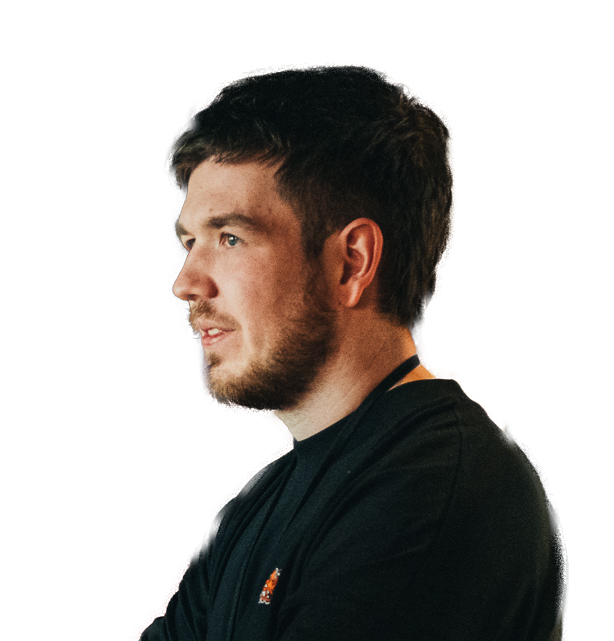
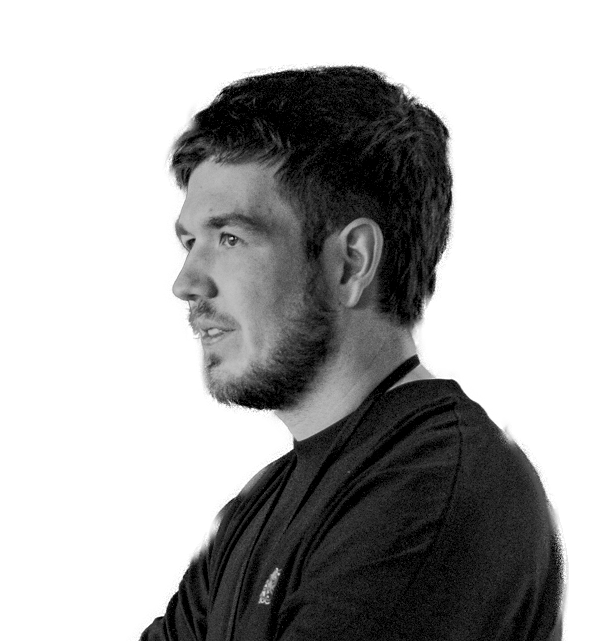
are we there yet

diff --git a/index.html b/index.html
@@ -24,7 +24,7 @@
         width: 100%;
         height: 100%;
         z-index: -1;
-        opacity: 0.12;
+        opacity: 0.2;
       }
       .card-wrapper {
         display: flex;
@@ -39,7 +39,6 @@
       }
       .card {
         background: #111;
-        border: 1px solid #222;
         border-radius: 16px;
         padding: 40px 50px;
         text-align: center;
@@ -80,6 +79,11 @@
         color: #ff3d00;
         font-weight: bold;
         text-decoration: none;
+        position: relative;
+        transition: text-shadow 0.3s ease;
+        text-shadow: 0 0 15px rgba(255, 61, 0, 0.8), 0 0 30px rgba(255, 61, 0, 0.4);
+      }
+      .calda:hover {
       }
     </style>
   </head>
@@ -131,11 +135,32 @@
           return fract(sin(dot(p, vec3(12.9898, 78.233, 45.164))) * 43758.5453);
         }
 
+        float noise(vec2 p) {
+          vec2 i = floor(p);
+          vec2 f = fract(p);
+          vec2 u = f * f * (3.0 - 2.0 * f);
+          float a = random(i);
+          float b = random(i + vec2(1.0, 0.0));
+          float c = random(i + vec2(0.0, 1.0));
+          float d = random(i + vec2(1.0, 1.0));
+          return mix(mix(a, b, u.x), mix(c, d, u.x), u.y);
+        }
+
+        float fbm(vec2 p) {
+          float v = 0.0, a = 0.5;
+          for (int i = 0; i < 5; i++) {
+            v += a * noise(p);
+            p *= 2.0;
+            a *= 0.5;
+          }
+          return v;
+        }
+
         void main() {
-          float px = 8.0;
+          float px = 6.0;
           vec2 coord = floor(gl_FragCoord.xy / px);
 
-          float grain = random3(vec3(coord, floor(u_time * 5.0)));
+          float grain = random3(vec3(coord, floor(u_time * 20.0)));
 
           float scanline = 0.95 + 0.05 * step(0.5, fract(gl_FragCoord.y * 0.5));
 
@@ -145,7 +170,7 @@
 
           float tint = random(vec2(coord.y * 0.3, floor(u_time * 3.0)));
           if (tint > 0.995) {
-            float boost = 0.15;
+            float boost = 0.5;
             r += random(vec2(coord.x + u_time * 1.3, coord.y)) * boost;
             g += random(vec2(coord.x + u_time * 2.7, coord.y + 1.0)) * boost;
             b += random(vec2(coord.x + u_time * 4.1, coord.y + 2.0)) * boost;
@@ -156,20 +181,23 @@
             float cr = random3(vec3(coord + 100.0, floor(u_time * 20.0)));
             float cg = random3(vec3(coord + 200.0, floor(u_time * 20.0)));
             float cb = random3(vec3(coord + 300.0, floor(u_time * 20.0)));
-            r = cr * 0.6;
-            g = cg * 0.6;
-            b = cb * 0.6;
+            r = cr * 0.7;
+            g = cg * 0.7;
+            b = cb * 0.7;
           }
 
-          float shimmer = random3(vec3(coord + 500.0, floor(u_time * 20.0)));
-          if (shimmer > 0.9995) {
-            float brightness = 0.9 + random(vec2(coord)) * 0.1;
-            r = brightness;
-            g = brightness;
-            b = brightness;
-          }
+          float pc1 = noise(coord * 0.8 + u_time * 0.5);
+          float pc2 = noise(coord * 0.8 + u_time * 0.5 + 100.0);
+          float pc3 = noise(coord * 0.8 + u_time * 0.5 + 200.0);
+          vec3 color = vec3(r, g, b) * scanline + vec3(pc1, pc2, pc3) * 0.3;
 
-          vec3 color = vec3(r, g, b) * scanline;
+          vec2 warp = vec2(
+            noise(coord * 0.03 + u_time * 0.12),
+            noise(coord * 0.03 + u_time * 0.12 + 50.0)
+          );
+          float mask = fbm(coord * 0.02 + warp * 2.0);
+          mask = smoothstep(0.35, 0.75, mask);
+          color *= mask;
 
           gl_FragColor = vec4(color, 1.0);
         }